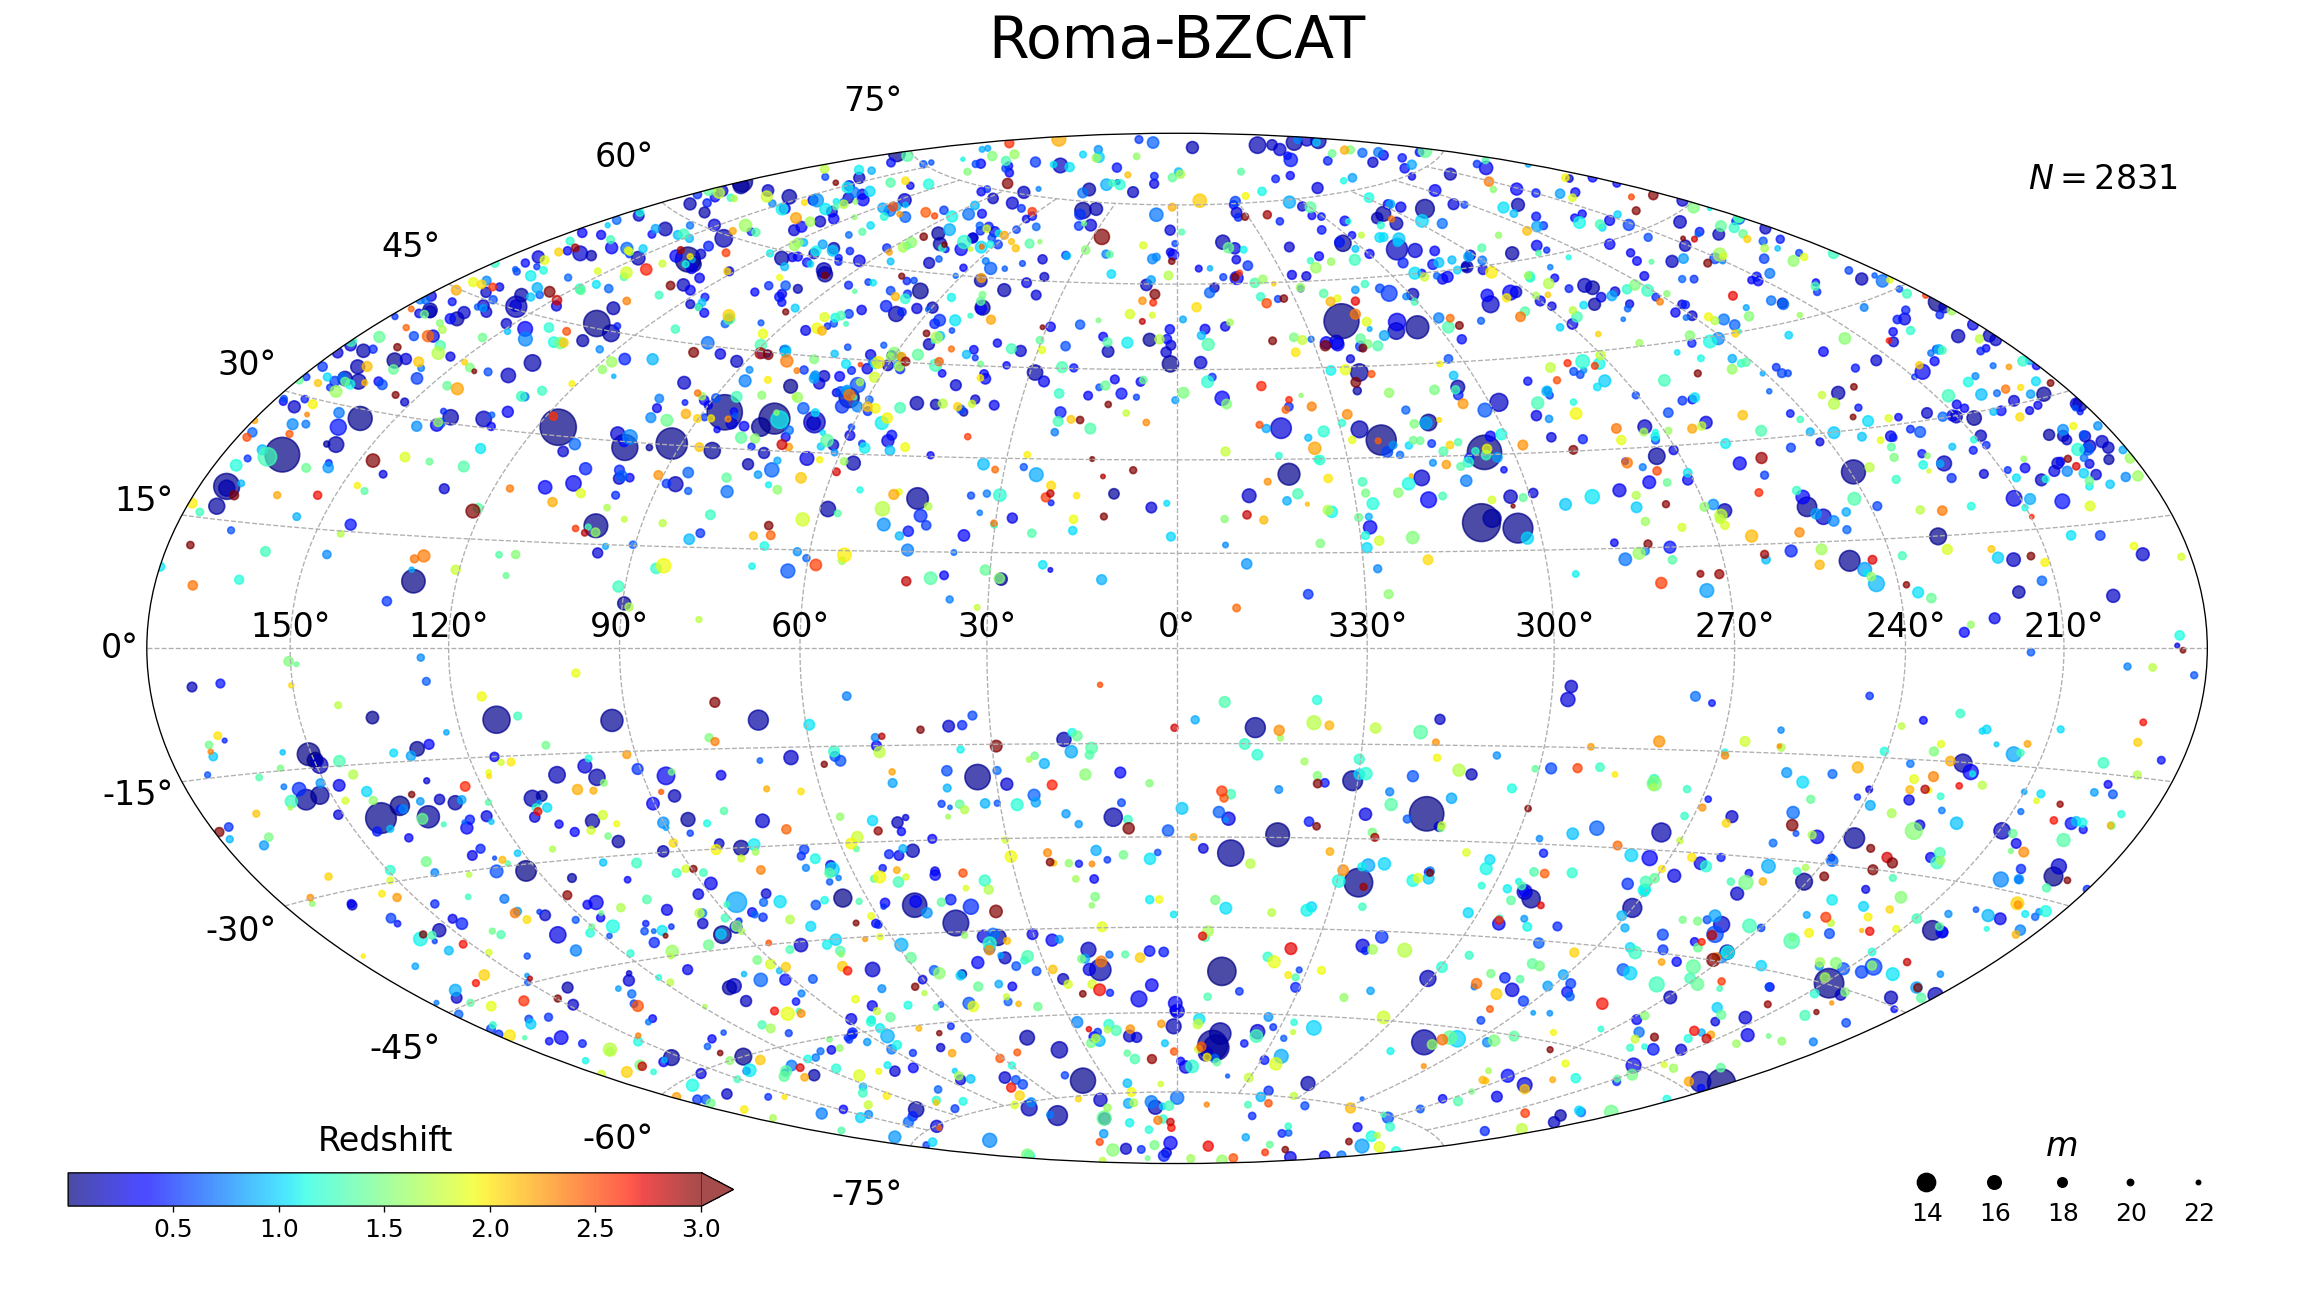
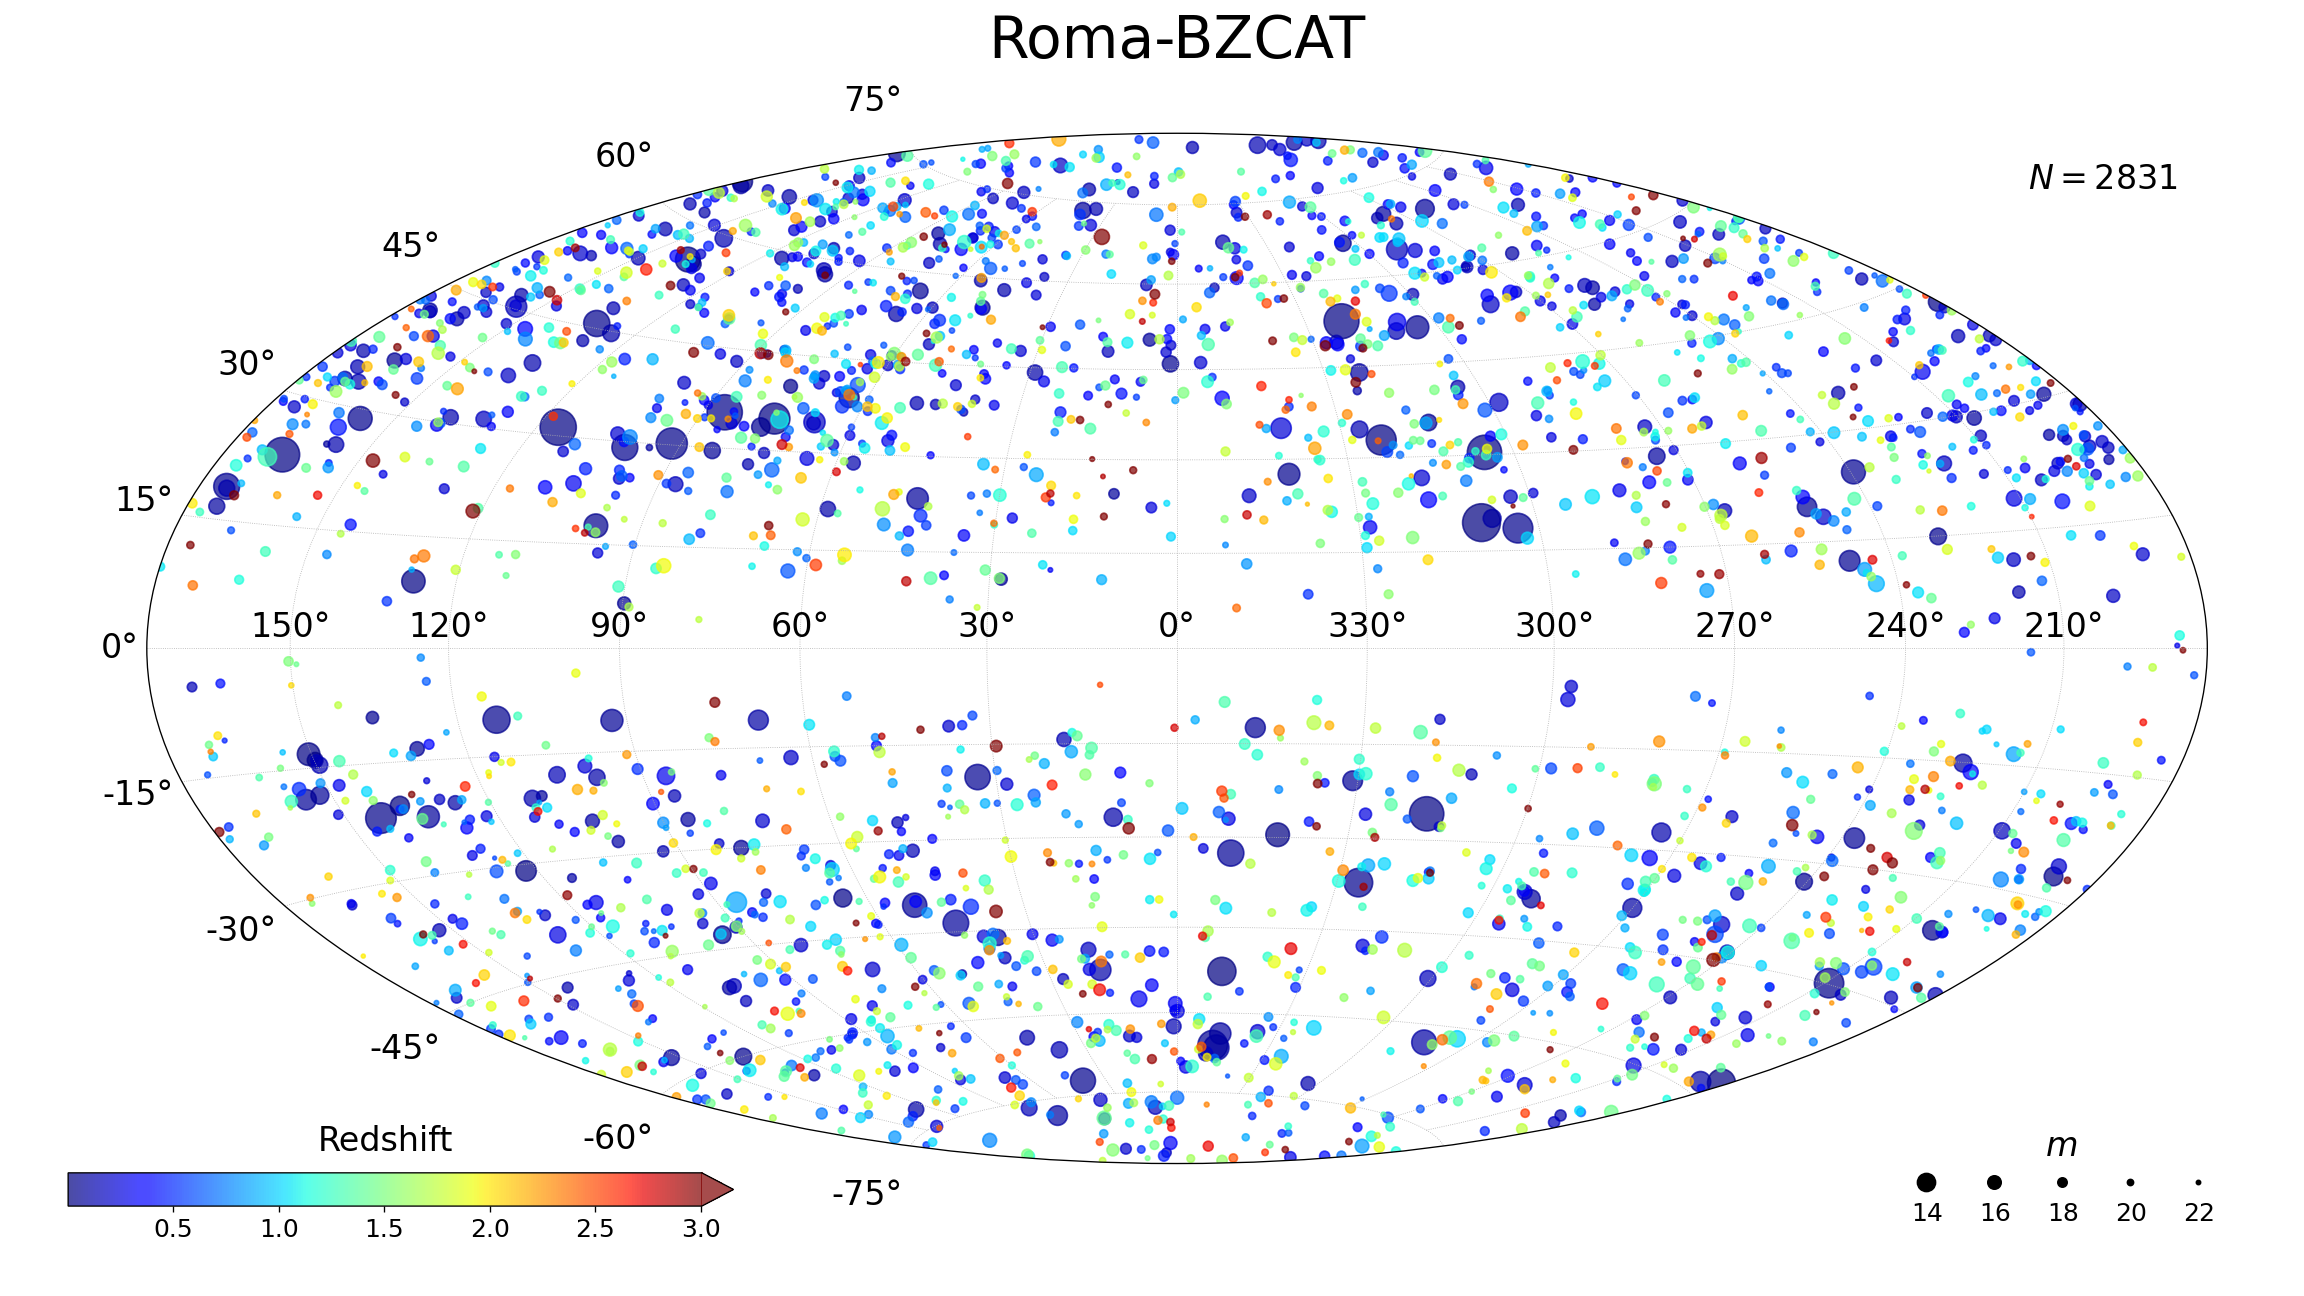
other graphs

diff --git a/neutrino.py b/neutrino.py
@@ -10,10 +10,9 @@ import angles
 
 # TODO презентацию с описанием работы и итоговыми картинками
 
-# TODO сделать те картинки которые выделялись отдельно
-
 # TODO делать ли отсечки на основании гистограмм?
 # TODO как делать умный выбор галактик в гауссе?
+# TODO еще графики?
 
 # constants
 EMin = 30 * 10 ** 3
@@ -62,6 +61,7 @@ def allsky(catalog):
         'cf2': {
             'par': [5, 0.005, 4],
             'by': 'DIST',
+            'vmin': None,
             'vmax': 200.2,
             'extend': 'max',
             'xlabel': 'Distance, Mpc',
@@ -144,7 +144,7 @@ def allsky(catalog):
     cbar = fig.colorbar(axrgb, extend=extend, location='bottom', fraction=0.05, shrink=0.3,
                         pad=0.05, anchor=(0, 3))
 
-    plt.grid(True, linestyle='--')
+    ax.grid(True, linestyle=':', linewidth=0.5)
 
     ax.set_title(fr'{catalogs.fullName[catalog]}', fontsize=35, pad=45)
     cbar.ax.set_xlabel(xlabel, fontsize=20, labelpad=-70)
@@ -172,6 +172,8 @@ def allsky(catalog):
 
 
 def normal_pdf_logx_hist(n_particles, z=None):
+    # TODO ускорить
+
     n_distr = 10 ** 5
     rng = np.random.default_rng()
 
@@ -317,7 +319,7 @@ def gauss(catalog, glon, glat, dgl, n_grid, fwhm):
     scaling(data)
 
     # extracts specific column
-    data['BAR'] = normal_pdf_logx_hist(data['NEU'].to_numpy())[:, 25]
+    data['BAR'] = normal_pdf_logx_hist(data['NEU'].to_numpy(), data['Z'].to_numpy())[:, 25]
 
     x = np.linspace(glon_min, glon_max, n_grid + 1)
     y = np.linspace(glat_min, glat_max, n_grid + 1)
@@ -356,7 +358,7 @@ def gauss_graph(catalog):
 
     glon = 90
     glat = 0
-    dgl = 30
+    dgl = 60
     n_grid = 100
     fwhm = 1.5
     x, y, z = gauss(catalog, glon, glat, dgl, n_grid, fwhm)
@@ -380,4 +382,74 @@ def gauss_graph(catalog):
     plt.show()
 
 
-gauss_graph('milliquas')
+def diff():
+    d1 = pd.read_csv('datasets/2mrsG.csv')
+    d1 = d1.loc[(d1['Vgp'] > 0) & (d1['K_t'] > 0)]
+
+    d2 = pd.read_csv('datasets/cf2.csv')
+    d2 = d2.loc[(d2['Dist'] > 0) & (d2['Btot'] > 0) & (d2['Dist'] < 350)]
+
+    d3 = pd.merge(d1, d2, how='inner', on=['pgc'])
+    d3['DIFF'] = d3['Vgp'] / catalogs.H - d3['Dist']
+
+    fig = plt.figure(figsize=(19.2, 10.8))
+    ax = fig.add_subplot(111)
+
+    ax.hist(d3['DIFF'], 25)
+
+    ax.set_xlabel('Difference in distance, Mpc', fontsize=20)
+    ax.set_ylabel('$N$', fontsize=20)
+    ax.set_ylim(0)
+
+    ax.xaxis.set_minor_locator(mpl.ticker.AutoMinorLocator())
+    ax.yaxis.set_minor_locator(mpl.ticker.AutoMinorLocator())
+    ax.tick_params(axis='both', which='major', labelsize=18)
+    ax.yaxis.offsetText.set_fontsize(18)
+
+    ax.grid(True, linestyle=':', linewidth=0.3)
+    ax.grid(True, 'minor', linestyle=':', linewidth=0.1)
+
+    ax.set_title(fr'Difference in distance between cf2 and 2mrsg catalogs, $N={len(d3.index)}$', fontsize=25, pad=15)
+
+    fig.tight_layout()
+
+    os.makedirs('other graphs', exist_ok=True)
+    fig.savefig('other graphs/diff.png', dpi=120)
+
+    plt.show()
+
+
+def k_s_vs_d_l():
+    data = pd.read_csv('datasets/cf2.csv')
+
+    data = data.loc[(data['Dist'] > 0) & (data['Ks'] > 0)]
+
+    fig = plt.figure(figsize=(19.2, 10.8))
+    ax = fig.add_subplot(111)
+
+    ax.scatter(data['Dist'], data['Ks'], s=1)
+
+    ax.set_xlabel('Distance, Mpc', fontsize=20)
+    ax.set_ylabel('$K_s$', fontsize=20)
+    ax.set_xlim(0)
+    ax.set_ylim(0)
+
+    ax.xaxis.set_minor_locator(mpl.ticker.AutoMinorLocator())
+    ax.yaxis.set_minor_locator(mpl.ticker.AutoMinorLocator())
+    ax.tick_params(axis='both', which='major', labelsize=18)
+    ax.yaxis.offsetText.set_fontsize(18)
+
+    ax.grid(True, linestyle='--', linewidth=0.3)
+    ax.grid(True, 'minor', linestyle='--', linewidth=0.1)
+
+    ax.set_title(fr'$K_s$ magnitude vs distance in {catalogs.fullName["cf2"]}', fontsize=25, pad=15)
+
+    fig.tight_layout()
+
+    os.makedirs('other graphs', exist_ok=True)
+    fig.savefig('other graphs/kSVsDl.png', dpi=120)
+
+    plt.show()
+
+
+allsky('milliquas')
